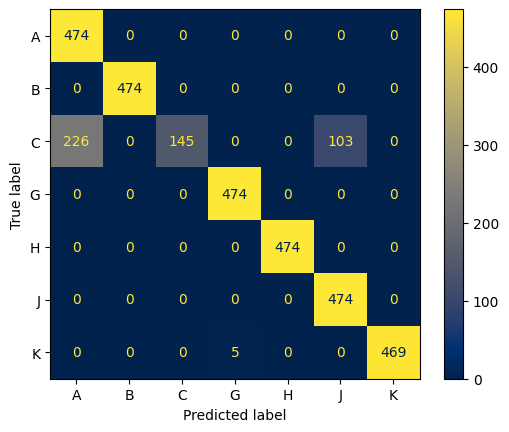
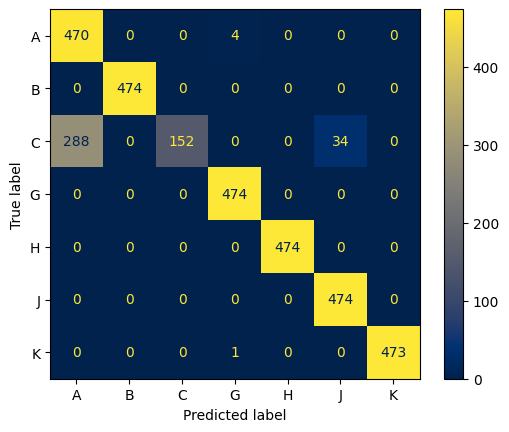
add temporal neurosymbolic training

diff --git a/SNN/nsTempTrain.py b/SNN/nsTempTrain.py
@@ -1,0 +1,280 @@
+import torch
+import os
+import gc
+import pickle
+import numpy as np
+import random
+
+from sklearn.metrics import ConfusionMatrixDisplay, confusion_matrix
+
+from nsNetworks import SNNetwork, CNNetwork, predict
+
+from deepproblog.dataset import Dataset, DataLoader
+from deepproblog.engines import ExactEngine
+from deepproblog.evaluate import get_confusion_matrix
+from deepproblog.model import Model
+from deepproblog.network import Network
+from deepproblog.train import train_model
+from deepproblog.utils.stop_condition import Threshold, StopOnPlateau, EpochStop
+
+from problog.logic import Term, Constant
+from deepproblog.query import Query
+import time
+
+
+import cProfile
+
+# Set the random seed for reproducibility
+RANDOM_STATE = 42
+random.seed(RANDOM_STATE)
+torch.manual_seed(RANDOM_STATE)
+np.random.seed(RANDOM_STATE)
+
+# Set constants
+BATCH_SIZE = 35
+TIME_WINDOW = 1.5
+CSI_PER_SECOND = 30
+WINDOW_SIZE = int(TIME_WINDOW * CSI_PER_SECOND)
+STARTS = range(0, 80*CSI_PER_SECOND-int(TIME_WINDOW*CSI_PER_SECOND), int(TIME_WINDOW*CSI_PER_SECOND/30))
+TEST_STARTS = range(0, 80*CSI_PER_SECOND-int(TIME_WINDOW*CSI_PER_SECOND), CSI_PER_SECOND)
+ACTIONS = ['A', 'K'] 
+LABELS = ['walk', 'squat']
+
+TEST_ON_DIFFERENT_SETS = False
+
+# Define the CSI dataset class
+class CsiDataset(Dataset):
+    def __init__(self, data, subset):
+
+        self.data = data
+        self.subset = subset
+
+    def __len__(self):
+        return self.data[0].shape[0]
+
+    def __getitem__(self, idx):
+        if not isinstance(idx, int):
+            idx = idx[0].value
+        return self.data[0][idx]
+    
+    def to_query(self, idx):
+        sub = {Term("a"): Term("tensor", Term(self.subset, Constant(idx)))}
+        return Query(Term("activity", Term("a"), Term(self.data[1][idx])), sub)
+    
+# A function to load the data from different files and create the Datasets and DataLoaders
+def prepare_data():
+    train_csi = torch.Tensor()
+    train_labels = []
+    test_csi = torch.Tensor()
+    test_labels = []
+
+    for x, label in zip(ACTIONS, LABELS):
+        if os.getcwd().split('/')[-1] == 'SNN':
+            os.chdir('..')
+
+        file = f'datasets/mean_dataset_abs/S1a_{x}.pkl'
+
+        # Load CSI data from pickle file
+        with open(file, 'rb') as f:
+            data = pickle.load(f)       # WARNING This code does not handle exceptions for simplicity exceptions would require keeping track of indices
+
+        # divide the 80s of data in 2310 windows of 3s
+        csi = []
+        for start in STARTS:
+            csi.append(data[start:start+WINDOW_SIZE, ...])
+        csi = torch.Tensor(np.array(csi))
+        
+        # Split the data into training and test sets [80%, 20%]
+        sep = int(0.8 * len(csi))
+        train_csi = torch.cat([train_csi, csi[:sep]], dim=0)
+        train_labels += [label] * sep 
+
+        test_csi = torch.cat([test_csi, csi[sep:]], dim=0)
+        test_labels += [label] * (len(csi) - sep)
+
+        del csi, data
+        gc.collect()
+
+    # Normalize the CSI dataset
+    max_val = max([torch.max(train_csi), torch.max(test_csi)])
+    train_csi = torch.true_divide(train_csi, max_val)
+    gc.collect()
+    test_csi = torch.true_divide(test_csi, max_val)
+    gc.collect()
+
+    indices = torch.randperm(train_csi.size(0))
+    train_csi = train_csi[indices]
+    train_labels = [train_labels[i] for i in indices]
+
+    # create Datasets and DataLoaders
+    csi_trainset = CsiDataset([train_csi, train_labels], "train")
+    csi_testset = CsiDataset([test_csi, test_labels], "test")
+
+    csi_dataloader = DataLoader(csi_trainset, batch_size=BATCH_SIZE)
+
+    return csi_trainset, csi_testset, csi_dataloader
+
+
+def load_test_data(set=2):
+    test_csi = torch.Tensor()
+    test_labels = []
+
+    for x, label in zip(ACTIONS, LABELS):
+        if os.getcwd().split('/')[-1] == 'SNN':
+            os.chdir('..')
+
+        filetest = f'datasets/mean_dataset_abs/S{set}a_{x}.pkl'
+        # Load CSI data from pickle file
+        with open(filetest, 'rb') as f:
+            datatest = pickle.load(f)       # WARNING This code does not handle exceptions for simplicity exceptions would require keeping track of indices
+
+        # divide the 80s of data in 2310 windows of 3s
+        csidata = []
+        for start in TEST_STARTS:
+            csidata.append(datatest[start:start+WINDOW_SIZE, ...])
+
+        csidata = torch.Tensor(np.array(csidata))
+
+        test_csi = torch.cat([test_csi, csidata], dim=0)
+        test_labels = test_labels + [label] * len(csidata)
+
+    # Normalize the CSI dataset
+    max_val = torch.max(test_csi)
+    test_csi = torch.true_divide(test_csi, max_val)
+
+    csi_testset = CsiDataset([test_csi, test_labels], "test")
+
+    return csi_testset
+
+
+def test_net(model, test, name):
+    model.add_tensor_source("test", test)
+
+    # Compute the predictions
+    preds, labels = predict(model, test, LABELS)
+
+    # Compute the confusion matrix
+    cm = confusion_matrix(labels, preds)
+
+    # Save the confusion matrix
+    disp = ConfusionMatrixDisplay(confusion_matrix=cm, display_labels=ACTIONS)
+    cmdisp = disp.plot(cmap="cividis")
+    cmdisp.figure_.savefig(f"SNN/results/neuroSymbolic/ConfMat{name}.png", bbox_inches='tight')
+
+def main():
+    train, test, loader = prepare_data()
+
+
+    lr = 0.0007
+    device = torch.device("cuda" if torch.cuda.is_available() else "cpu")
+
+
+    nnul1 = CNNetwork(2, 1)
+    netul1 = Network(nnul1, "upper_legs_net_1", batching=True)
+    netul1.cuda(device)
+    netul1.optimizer = torch.optim.AdamW(nnul1.parameters(), lr=lr)
+
+    nnul2 = CNNetwork(2, 2)
+    netul2 = Network(nnul2, "upper_legs_net_2", batching=True)
+    netul2.cuda(device)
+    netul2.optimizer = torch.optim.AdamW(nnul2.parameters(), lr=lr)
+
+    nnul3 = CNNetwork(2, 3)
+    netul3 = Network(nnul3, "upper_legs_net_3", batching=True)
+    netul3.cuda(device)
+    netul3.optimizer = torch.optim.AdamW(nnul3.parameters(), lr=lr)
+
+    nnua1 = CNNetwork(2, 1)
+    netua1 = Network(nnua1, "upper_arms_net_1", batching=True)
+    netua1.cuda(device)
+    netua1.optimizer = torch.optim.AdamW(nnua1.parameters(), lr=lr)
+
+    nnua2 = CNNetwork(2, 2)
+    netua2 = Network(nnua2, "upper_arms_net_2", batching=True)
+    netua2.cuda(device)
+    netua2.optimizer = torch.optim.AdamW(nnua2.parameters(), lr=lr)
+
+    nnua3 = CNNetwork(2, 3)
+    netua3 = Network(nnua3, "upper_arms_net_3", batching=True)
+    netua3.cuda(device)
+    netua3.optimizer = torch.optim.AdamW(nnua3.parameters(), lr=lr)
+
+    modelCnn = Model("SNN/temporalLogic.pl", [netul1, netul2, netul3, netua1, netua2, netua3])
+    modelCnn.add_tensor_source("train", train)
+    modelCnn.set_engine(ExactEngine(modelCnn), cache=True)
+
+    trained_model = train_model(
+        modelCnn,
+        loader,
+        StopOnPlateau("Accuracy", warm_up=5, patience=5) | Threshold("Accuracy", 1.0, duration=2) | EpochStop(30),
+        log_iter=100,
+        profile=0,
+    )
+
+
+    del trained_model, nnua1, nnua2, nnua3, nnul1, nnul2, nnul3, netua1, netua2, netua3, netul1, netul2, netul3
+    gc.collect()
+
+    lr = 0.001
+
+    nnul1 = SNNetwork(100, 2, time_frame=1)
+    netul1 = Network(nnul1, "upper_legs_net_1", batching=True)
+    netul1.optimizer = torch.optim.AdamW(nnul1.parameters(), lr=lr)
+    netul1.cuda(device)
+
+    nnul2 = SNNetwork(100, 2, time_frame=2)
+    netul2 = Network(nnul2, "upper_legs_net_2", batching=True)
+    netul2.optimizer = torch.optim.AdamW(nnul2.parameters(), lr=lr)
+    netul2.cuda(device)
+
+    nnul3 = SNNetwork(100, 2, time_frame=3)
+    netul3 = Network(nnul3, "upper_legs_net_3", batching=True)
+    netul3.optimizer = torch.optim.AdamW(nnul3.parameters(), lr=lr)
+    netul3.cuda(device)
+
+    nnua1 = SNNetwork(100, 2, time_frame=1)
+    netua1 = Network(nnua1, "upper_arms_net_1", batching=True)
+    netua1.optimizer = torch.optim.AdamW(nnua1.parameters(), lr=lr)
+    netua1.cuda(device)
+
+    nnua2 = SNNetwork(100, 2, time_frame=2)
+    netua2 = Network(nnua2, "upper_arms_net_2", batching=True)
+    netua2.optimizer = torch.optim.AdamW(nnua2.parameters(), lr=lr)
+    netua2.cuda(device)
+
+    nnua3 = SNNetwork(100, 2, time_frame=3)
+    netua3 = Network(nnua3, "upper_arms_net_3", batching=True)
+    netua3.optimizer = torch.optim.AdamW(nnua3.parameters(), lr=lr)
+    netua3.cuda(device)
+
+    modelSnn = Model("SNN/temporalLogic.pl", [netul1, netul2, netul3, netua1, netua2, netua3])
+    modelSnn.add_tensor_source("train", train)
+    modelSnn.add_tensor_source("test", test)
+    modelSnn.set_engine(ExactEngine(modelSnn), cache=True)
+
+    trained_model = train_model(
+        modelSnn,
+        loader,
+        StopOnPlateau("Accuracy", warm_up=5, patience=5) | Threshold("Accuracy", 1.0, duration=2) | EpochStop(30),
+        log_iter=100,
+        profile=0,
+    )
+
+
+    if TEST_ON_DIFFERENT_SETS:
+        for set, name in zip([2, 6, 5, 4], ['Sub', 'Env', 'Day', 'Same']):
+            # Load the test data
+            test_set = load_test_data(set)
+
+            test_net(modelSnn, test_set, f'SNN{name}1s')
+            test_net(modelCnn, test_set, f'CNN{name}1s')
+            print(f"Tested on {name} dataset")
+            del test_set
+            gc.collect()
+    else:
+        test_net(modelCnn, test, 'CNNtemp')
+        test_net(modelSnn, test, 'SNNtemp')
+
+
+if __name__ == "__main__":
+    main()

diff --git a/SNN/nsNetworks.py b/SNN/nsNetworks.py
@@ -4,16 +4,16 @@ import torch.nn as nn
 
 import snntorch as snn
 
+WINDOWS = [[0, 45], [0,15], [15,30], [30, 45]]
 
 class CNNetwork(nn.Module):
-   def __init__(self, num_classes=2, num_activities=1, time_window=1):
-      assert time_window in [1,3]
+   def __init__(self, num_classes=2, time_frame=0):
       super(CNNetwork, self).__init__()
-      self.final = nn.Softmax(1) if num_activities == 1 else nn.Softmax(2)
+      self.final = nn.Softmax(1)
       self.num_classes = num_classes
-      self.num_activities = num_activities
+      self.time_frame = time_frame
 
-      if time_window == 1:
+      if time_frame == 0:
          # Define the CNN layers and the classifier the comments are the values for 1s input
          self.conv = nn.Sequential( # 4, 30, 2048
             nn.Conv2d(4, 1, (1,1)), # 1, 30, 2048
@@ -25,16 +25,16 @@ class CNNetwork(nn.Module):
             nn.MaxPool2d((1,2)), # 6, 3, 19
             nn.Conv2d(6, 8, (3,5), stride=(2,2)), # 8, 1, 8
          )
+      
       else:
-         # Define the CNN layers and the classifier the comments are the values for 3s input
-         self.conv = nn.Sequential( # 4, 90, 2048
-            nn.Conv2d(4, 1, (1,1)), # 1, 90, 2048
-            nn.Conv2d(1, 4, (5,5), stride=(2,2)), # 4, 43, 1022
+         self.conv = nn.Sequential( # 4, 15, 2048
+            nn.Conv2d(4, 1, (1,1)), # 1, 15, 2048
+            nn.Conv2d(1, 4, (2,5), stride=(1,2)), # 4, 14, 1022
             nn.ReLU(inplace=True),
-            nn.MaxPool2d((2,5)), # 4, 21, 204
-            nn.Conv2d(4, 6, (5,11), stride=(3,5)), # 6, 6, 39
+            nn.MaxPool2d((2,5)), # 4, 7, 204
+            nn.Conv2d(4, 6, (3,11), stride=(2,5)), # 6, 3, 39
             nn.ReLU(inplace=True),
-            nn.MaxPool2d((2,2)), # 6, 3, 19
+            nn.MaxPool2d((1,2)), # 6, 3, 19
             nn.Conv2d(6, 8, (3,5), stride=(2,2)), # 8, 1, 8
          )
 
@@ -44,24 +44,25 @@ class CNNetwork(nn.Module):
       )
 
    def forward(self, x: torch.Tensor) -> torch.Tensor:
+      x = x[:, WINDOWS[self.time_frame][0]:WINDOWS[self.time_frame][1], :, :]
       x = x.permute(0, 3, 1, 2)
       x = self.conv(x)
-      if self.num_activities == 1:
-         x = x.flatten(1)
-      else:
-         x = x.permute(0, 2, 1, 3)
-         x = x.flatten(2)
+      x = x.flatten(1)
       x = self.classifier(x)
       return x
     
 
 
 class SNNetwork(nn.Module):
-   def __init__(self, hidden_dim, num_steps, num_classes):
+   def __init__(self, hidden_dim, num_classes, num_steps=15, time_frame=0):
       super(SNNetwork, self).__init__()
 
-      self.num_steps = num_steps
       self.num_classes = num_classes
+      self.time_frame = time_frame
+      if time_frame != 0:
+         self.num_steps = 5
+      else:
+         self.num_steps = num_steps
 
       # initialize layers
       self.antennas_fuse = nn.Conv2d(4, 1, (1,1))
@@ -78,6 +79,8 @@ class SNNetwork(nn.Module):
 
       if len(x.shape) < 4: x = x.unsqueeze(0)
 
+      x = x[:, WINDOWS[self.time_frame][0]:WINDOWS[self.time_frame][1], :, :]
+
       x = x.permute(0, 3, 1, 2)
       x = self.antennas_fuse(x)
       x = x.squeeze(1)
@@ -86,7 +89,7 @@ class SNNetwork(nn.Module):
          x = x.view(x.shape[0], -1, self.num_steps, x.shape[2])
 
       x = self.hidden_linear1(x)
-      spks = torch.zeros(x.shape[0], x.shape[1], x.shape[2], x.shape[3]) # [batch, time/steps, steps, hdim]
+      spks = torch.zeros(x.shape[0], x.shape[1], x.shape[2], x.shape[3], device=x.device) # [batch, time/steps, steps, hdim]
       for step in range(self.num_steps):
          sn_input = x[:,:,step,:]
          spk, mem = self.snn1(sn_input, mem)
@@ -94,7 +97,7 @@ class SNNetwork(nn.Module):
          spks[:,:,step,:] = spk
       
       hidden = self.hidden_linear2(spks.sum(dim=2))
-      spks = torch.zeros(hidden.shape[0], hidden.shape[1], self.num_classes)
+      spks = torch.zeros(hidden.shape[0], hidden.shape[1], self.num_classes, device=hidden.device)
 
       for step in range(hidden.shape[1]):
          spk2, mem2 = self.snn2(hidden[:,step,:], mem2)
